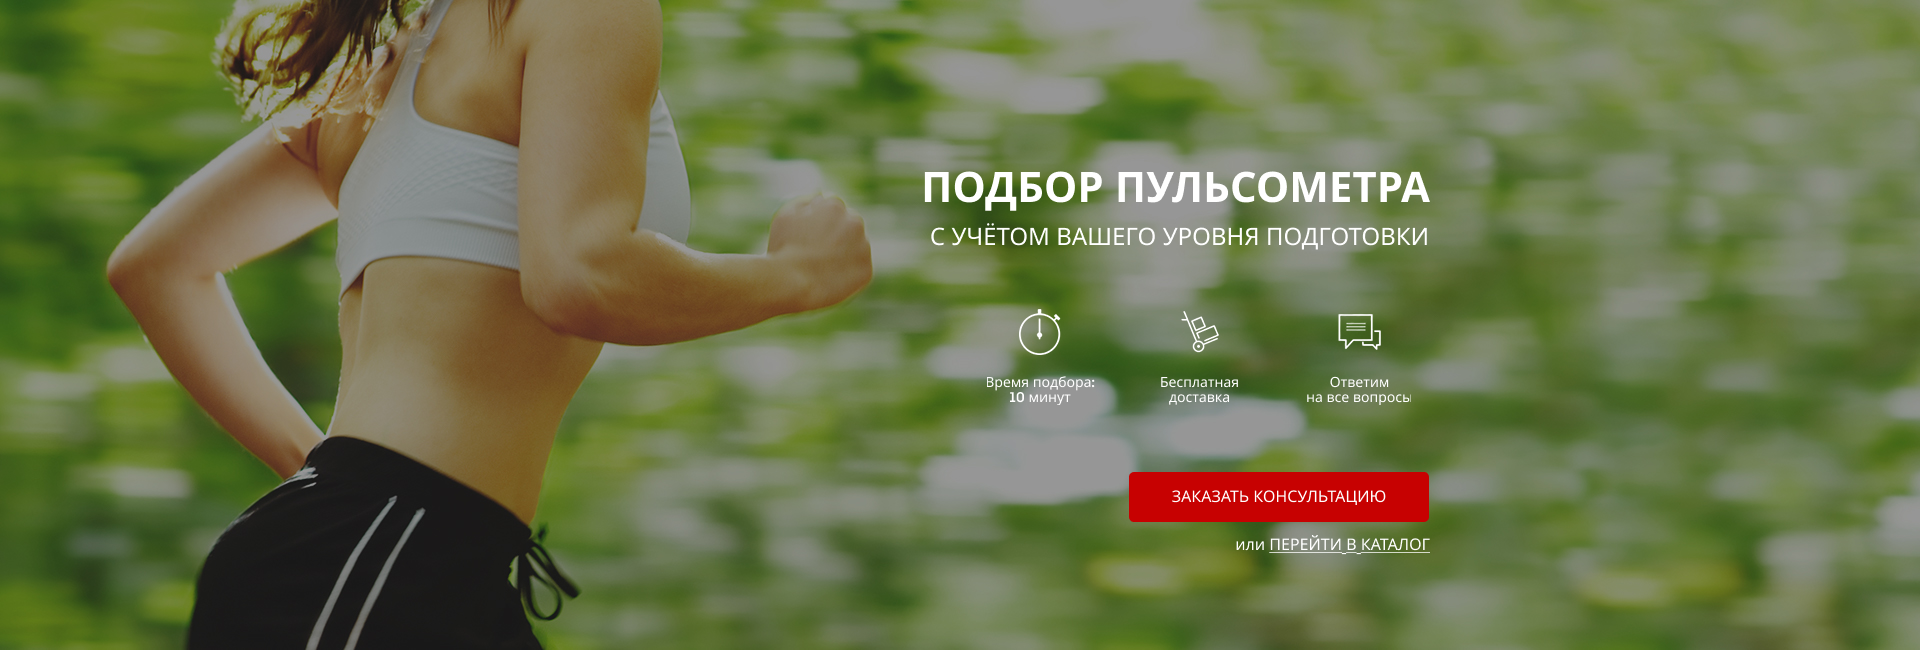
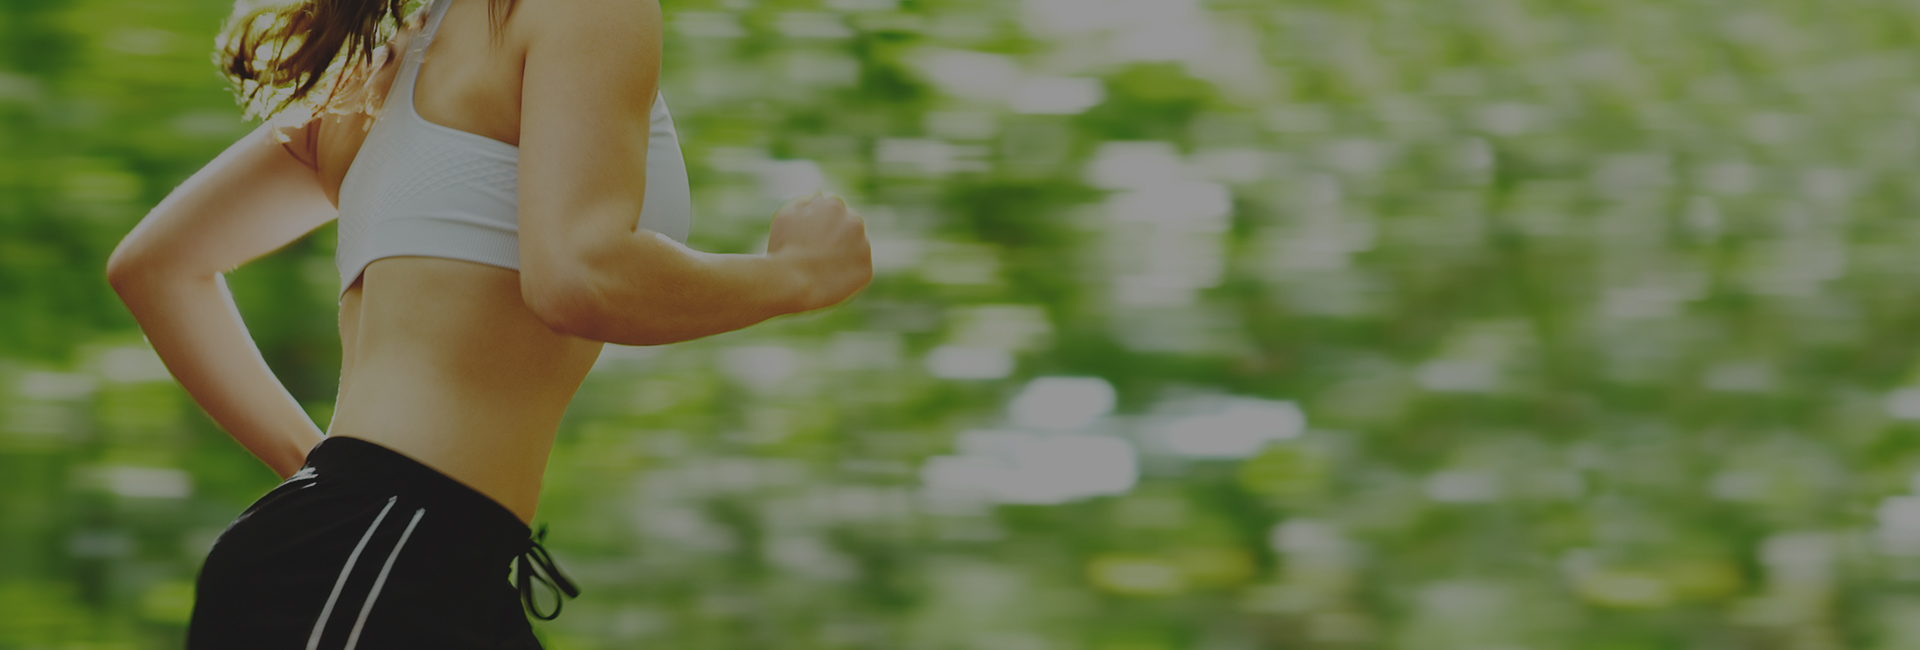
Added a promo-section

diff --git a/src/index.html b/src/index.html
@@ -10,6 +10,42 @@
     <link rel="stylesheet" href="css/style.min.css">
 </head>
 <body>
-    <header class="header">jopa</header>
+    <div class="promo">
+        <div class="container">
+            <header class="header">
+                <a href="#" class="header__logo">
+                    <img src="img/logo.png" alt="logo">
+                </a>
+                <div class="header__official">
+                    Официальный представитель
+                    <span>Garmin, Polar, Suunto</span>
+                </div>
+                <div class="header__contacts">
+                    <a href="tel:+74999228974">+7 (499) 922-89-74</a>
+                    <button class="button">заказать звонок</button>
+                </div>
+            </header>
+            <div class="promo__wrapper">
+                <h1 class="promo__header">Подбор пульсометра</h1>
+                <h2 class="promo__subheader">с учётом Вашего уровня подготовки</h2>
+                <div class="promo__icons">
+                    <div class="promo__icon">
+                        <img src="icons/main-screen/timer.png" alt="timer">
+                        Время подбора: <br>10 минут
+                    </div>
+                    <div class="promo__icon">
+                        <img src="icons/main-screen/hand-cart.png" alt="hand-cart">
+                        Бесплатная<br> доставка
+                    </div>
+                    <div class="promo__icon">
+                        <img src="icons/main-screen/messages.png" alt="messages">
+                        Ответим<br> на все вопросы
+                    </div>
+                </div>
+                <button class="button button_main">заказать кОНСУЛЬТАЦИЮ</button>
+                <div class="promo__link">или <a href="#">ПЕРЕЙТИ В КАТАЛОГ</a></div>
+            </div>
+        </div>
+    </div>
 </body>
 </html>

diff --git a/src/css/style.min.css b/src/css/style.min.css
@@ -1,1 +1,1 @@
-*{font-family:'Museo Sans Cyrl',sans-serif}
+*{font-family:'Museo Sans Cyrl',sans-serif}.container{max-width:941px;margin:0 auto}.promo{padding:21px 0 93px 0;min-height:650px;background:url(../../img/first_bg.png) center center/cover no-repeat}.promo__wrapper{display:flex;flex-direction:column;align-items:flex-end;margin-top:80px}.promo__header{font-weight:700;font-size:42px;margin:0;text-transform:uppercase;color:#fff}.promo__subheader{font-weight:500;font-size:24px;margin:0;text-transform:uppercase;color:#fff}.promo__icons{width:455px;margin-top:60px;display:flex;justify-content:space-between}.promo__icon{width:33%;font-weight:500;font-size:14px;line-height:14px;text-align:center;color:#fff}.promo__icon img{display:block;margin:0 auto;margin-bottom:20px}.promo__link{margin-top:8px;font-weight:500;font-size:16px;line-height:25px;color:#fff}.promo__link a{color:#fff;text-transform:uppercase;text-decoration:underline}.promo__link a:hover{text-decoration:none}.header{display:flex;justify-content:space-between;align-items:center}.header__logo{width:251px}.header__logo img{width:100%}.header__official{display:flex;flex-direction:column;font-weight:500;font-size:12px;line-height:12px;text-align:center;color:#fff}.header__official span{line-height:29px;margin-top:3px;font-size:18px;text-align:center;color:#fff}.header__contacts{display:flex;flex-direction:column;align-items:flex-end}.header__contacts a{text-decoration:none;font-weight:700;font-size:18px;line-height:18px;text-align:right;color:#fff}.header__contacts a:hover{color:#000}.button{width:153px;height:32px;background:#c70101;border:none;border-radius:5px;font-weight:500;font-size:12px;line-height:19px;text-transform:uppercase;text-align:center;color:#fff;margin-top:4px}.button_main{margin-top:67px;width:300px;height:50px;font-size:16px;line-height:25px}.button:hover{background:red}

diff --git a/src/sass/blocks/_promo.scss b/src/sass/blocks/_promo.scss
@@ -1,0 +1,59 @@
+.promo{
+    padding: 21px 0 93px 0;
+    min-height: 650px;
+    background: url(../../img/first_bg.png) center center/cover no-repeat;
+    &__wrapper{
+        display: flex;
+        flex-direction: column;
+        align-items: flex-end;
+        margin-top: 80px;
+    }
+    &__header{
+        font-weight: bold;
+        font-size: 42px;
+        margin: 0;
+        text-transform: uppercase;
+        color: #FFFFFF;
+    }
+    &__subheader{
+        font-weight: 500;
+        font-size: 24px;
+        margin: 0;
+        text-transform: uppercase;
+        color: #FFFFFF;
+    }
+    &__icons{
+        width: 455px;
+        margin-top: 60px;
+        display: flex;
+        justify-content: space-between;
+    }
+    &__icon{
+        width: 33%;
+        img{
+            display: block;
+            margin: 0 auto;
+            margin-bottom: 20px;
+        }
+        font-weight: 500;
+        font-size: 14px;
+        line-height: 14px;
+        text-align: center;
+        color: #FFFFFF;
+    }
+    &__link{
+        margin-top: 8px;
+        font-weight: 500;
+        font-size: 16px;
+        line-height: 25px;
+        color: #FFFFFF;
+        a{
+            color: #FFFFFF;
+            text-transform: uppercase;
+            text-decoration: underline;
+            &:hover{
+                text-decoration: none;
+            }
+        }
+    }
+}

diff --git a/src/sass/blocks/_header.scss b/src/sass/blocks/_header.scss
@@ -1,0 +1,43 @@
+.header{
+    display: flex;
+    justify-content: space-between;
+    align-items: center;
+    &__logo{
+        width: 251px;
+        img{
+            width: 100%;
+        }
+    }
+    &__official{
+        display: flex;
+        flex-direction: column;
+        font-weight: 500;
+        font-size: 12px;
+        line-height: 12px;
+        text-align: center;
+        color: #FFFFFF;
+        span{
+            line-height: 29px;
+            margin-top: 3px;
+            font-size: 18px;
+            text-align: center;
+            color: #FFFFFF;
+        }
+    }
+    &__contacts{
+        display: flex;
+        flex-direction: column;
+        align-items: flex-end;
+        a{
+            text-decoration: none;
+            font-weight: bold;
+            font-size: 18px;
+            line-height: 18px;
+            text-align: right;
+            color: #FFFFFF;
+            &:hover{
+                color:black;
+            }
+        }
+    }
+}

diff --git a/gulpfile.js b/gulpfile.js
@@ -15,7 +15,7 @@ gulp.task('server', function () {
 });
 
 gulp.task('styles', function () {
-    return gulp.src('src/sass/blocks/*.+(scss|sass)')
+    return gulp.src('src/sass/**/*.+(scss|sass)')
         .pipe(sass({ outputStyle: 'compressed' }).on('error', sass.logError))
         .pipe(rename({
             prefix: "",
@@ -28,7 +28,7 @@ gulp.task('styles', function () {
 });
 
 gulp.task('watch', function () {
-    gulp.watch("src/sass/blocks/*.+(scss|sass)", gulp.parallel("styles"))
+    gulp.watch("src/sass/**/*.+(scss|sass)", gulp.parallel("styles"))
     gulp.watch("src/*.html").on("change", browserSync.reload)
 })
 

diff --git a/src/sass/blocks/_button.scss b/src/sass/blocks/_button.scss
@@ -1,0 +1,24 @@
+.button{
+    width: 153px;
+    height: 32px;
+    background: $main-color;
+    border: none;
+    border-radius: 5px;
+    font-weight: 500;
+    font-size: 12px;
+    line-height: 19px;
+    text-transform: uppercase;
+    text-align: center;
+    color: #FFFFFF;
+    margin-top: 4px;
+    &_main{
+        margin-top: 67px;
+        width: 300px;
+        height: 50px;
+        font-size: 16px;
+        line-height: 25px;
+    }
+    &:hover{
+        background: red;
+    }
+}

diff --git a/src/sass/style.scss b/src/sass/style.scss
@@ -1,0 +1,14 @@
+@import "base/variables";
+
+*{
+	font-family: 'Museo Sans Cyrl', sans-serif;
+}
+
+.container{
+	max-width: 941px;
+	margin: 0 auto;
+}
+
+@import "blocks/promo.scss";
+@import "blocks/header.scss";
+@import "blocks/button.scss";

diff --git a/src/sass/base/_variables.scss b/src/sass/base/_variables.scss
@@ -1,0 +1,1 @@
+$main-color: #C70101;
